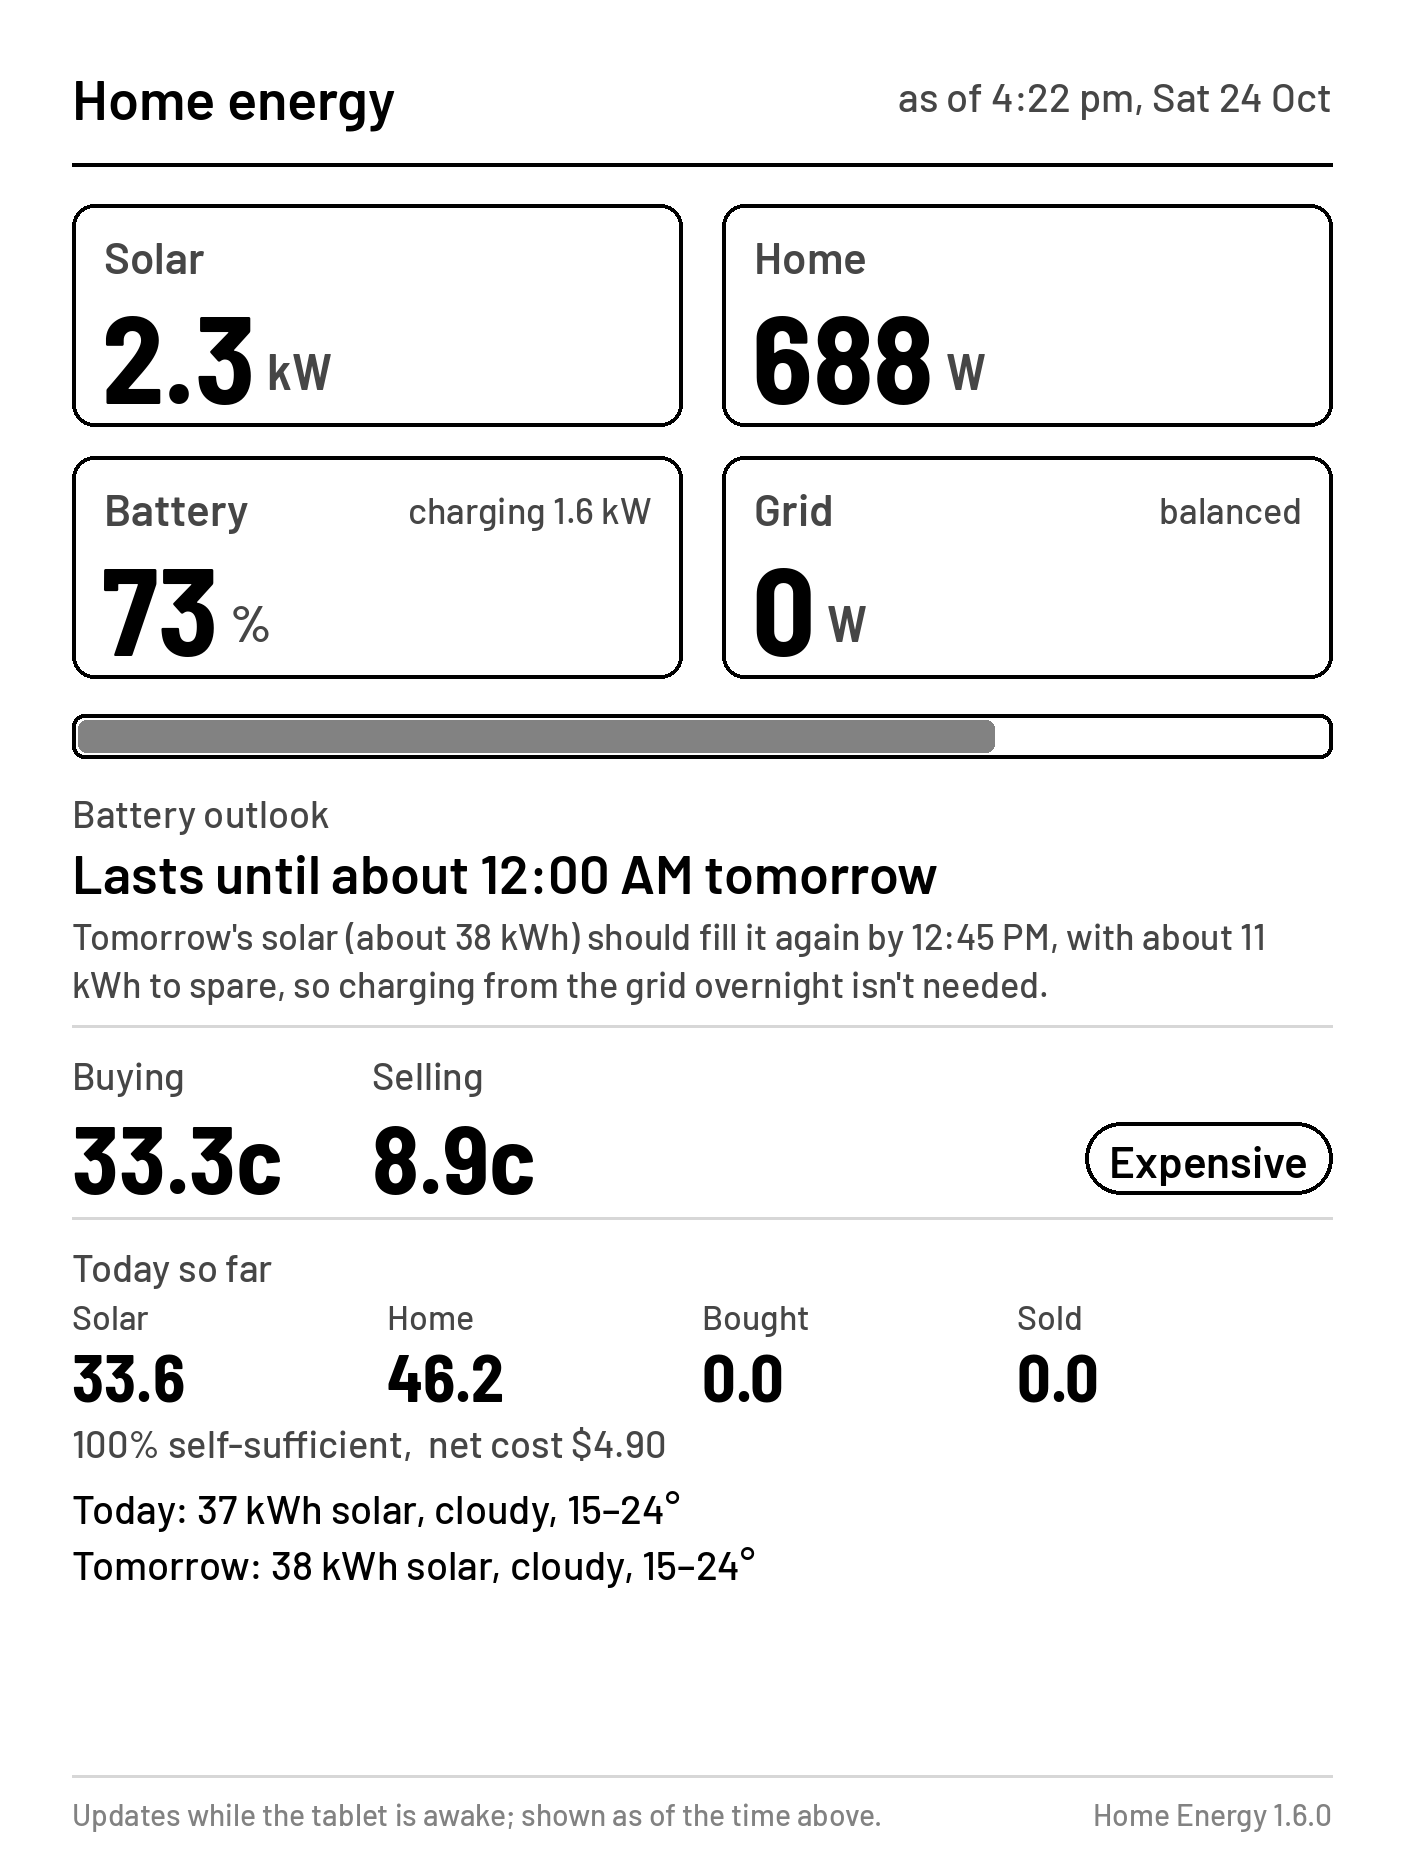
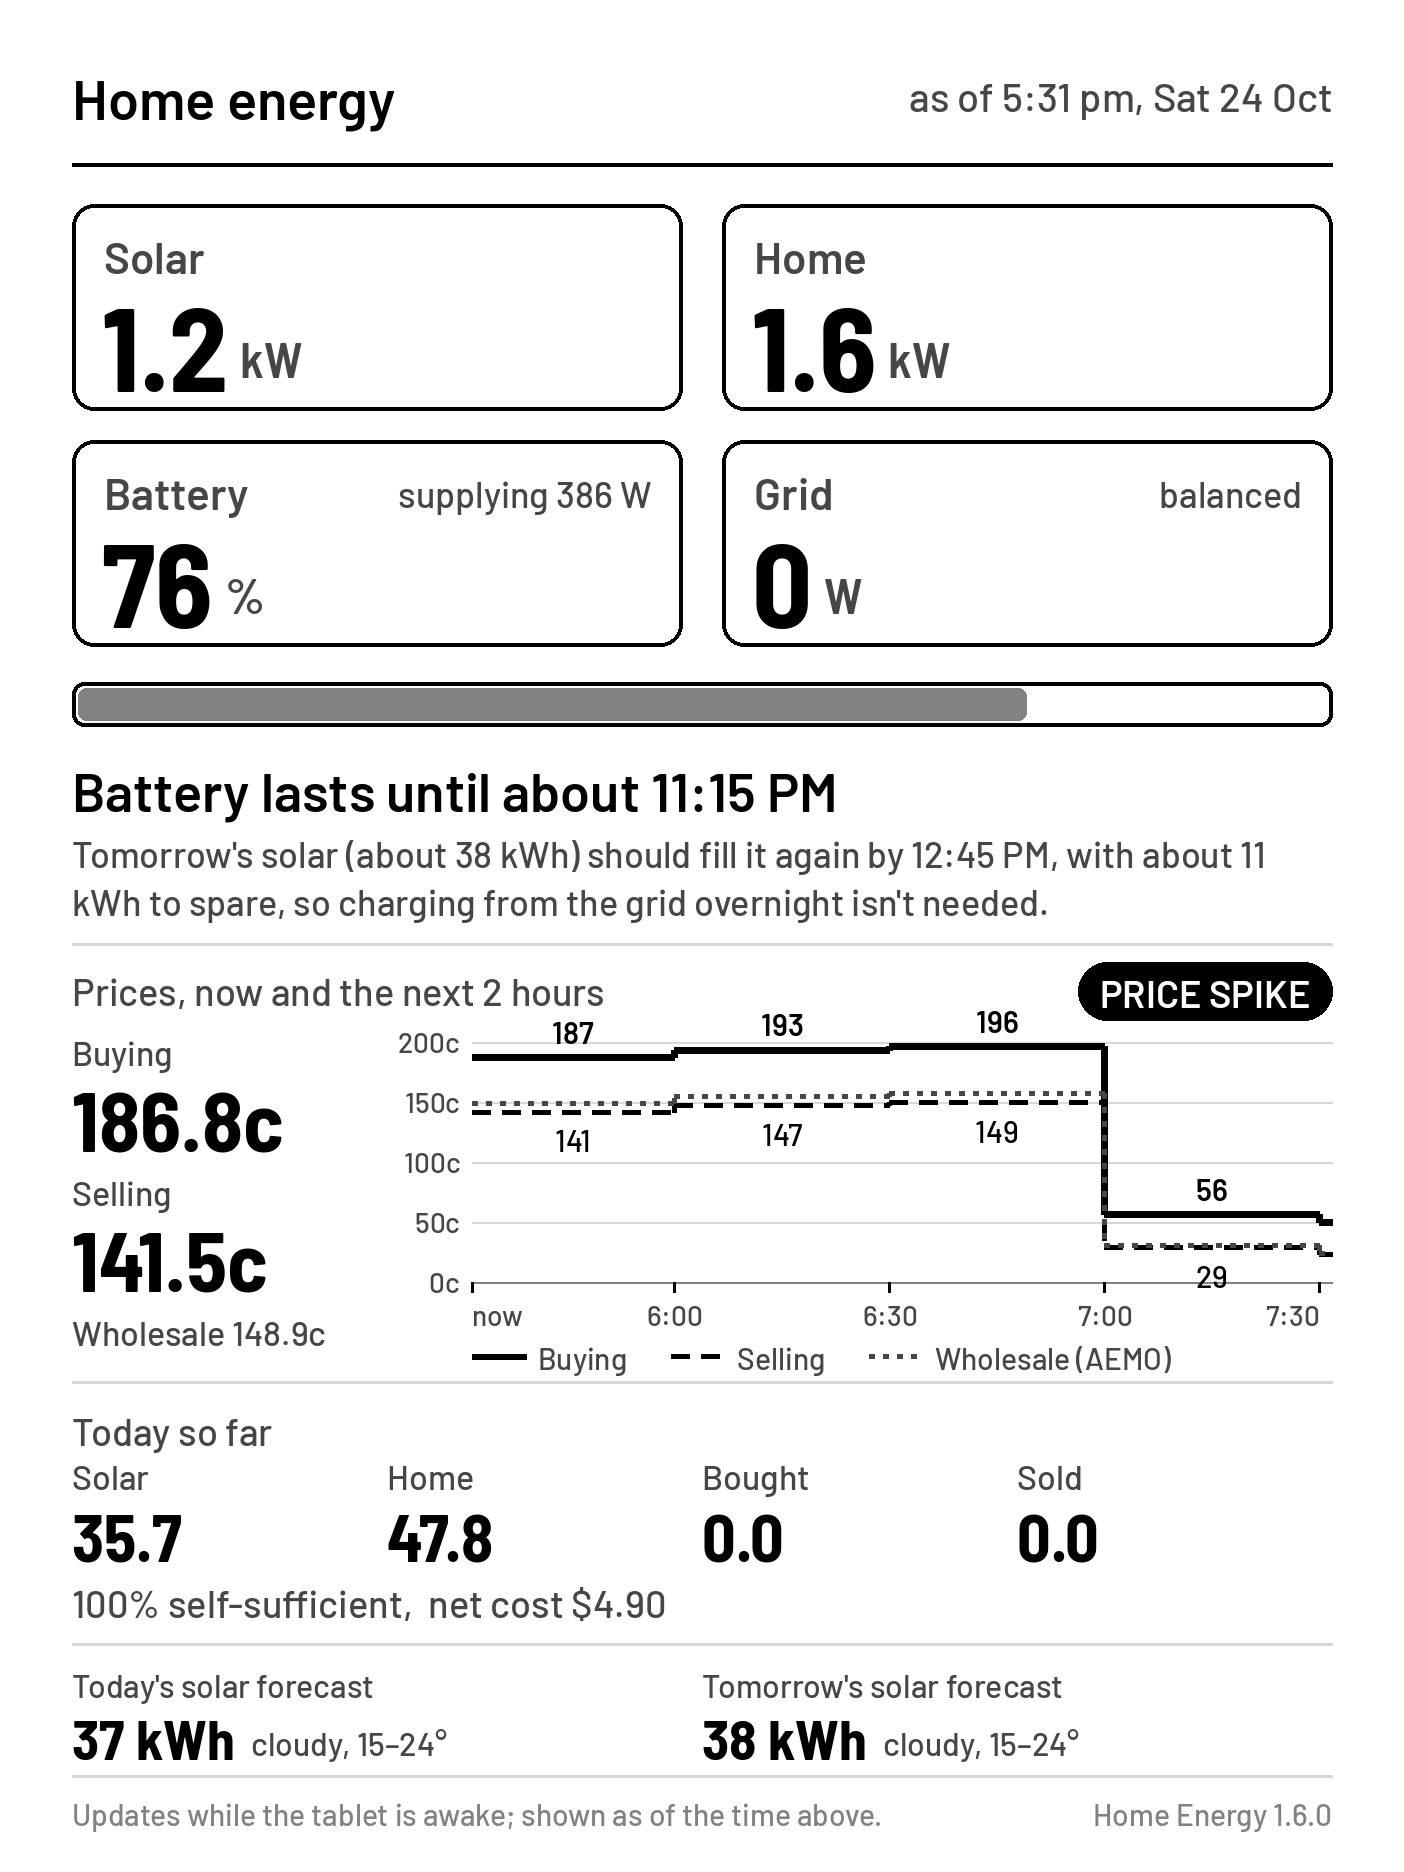
E-ink: next-2-hours price chart; keep install notes generic
The e-ink image now charts the retailer's buy and sell prices and the AEMO
wholesale price for the next two hours (stepped, labelled, with patterns
rather than colour), with the current prices alongside. Layout tightened to
fit, with the outlook folded into one headline. README and QNAP notes use a
placeholder collector address instead of a specific host name.

Claude-Session: https://claude.ai/code/session_015nhbUDYGJqnTyF2hbuQFnR

diff --git a/collector/eink.py b/collector/eink.py
@@ -46,7 +46,7 @@ def _wrap(draw, text, font, width):
     return lines
 
 
-def render(live, history=None, tz=None, width=1404, height=1872, version=""):
+def render(live, history=None, tz=None, width=1404, height=1872, version="", prices=None, aemo=None):
     if not AVAILABLE:
         raise RuntimeError("Pillow isn't installed, so the e-ink image isn't available outside the Docker image")
     s = width / 1404  # scale everything from the reMarkable 2 layout
@@ -78,7 +78,7 @@ def render(live, history=None, tz=None, width=1404, height=1872, version=""):
         y += S(80)
 
     # ---- the four flows, 2 x 2
-    cw, ch = (x1 - x0 - S(40)) // 2, S(222)
+    cw, ch = (x1 - x0 - S(40)) // 2, S(206)
     batt = b.get("soc")
     bw = p.get("battery") or 0
     gw = p.get("grid") or 0
@@ -93,10 +93,10 @@ def render(live, history=None, tz=None, width=1404, height=1872, version=""):
         cx, cy = x0 + (i % 2) * (cw + S(40)), y + (i // 2) * (ch + S(30))
         d.rounded_rectangle([cx, cy, cx + cw, cy + ch], radius=S(22), outline=BLACK, width=S(4))
         d.text((cx + S(32), cy + S(26)), label, font=txtb(44), fill=DARK)
-        vf = numb(124)
-        d.text((cx + S(30), cy + S(76)), val, font=vf, fill=BLACK)
+        vf = numb(118)
+        d.text((cx + S(30), cy + S(70)), val, font=vf, fill=BLACK)
         vw = d.textlength(val, font=vf)
-        d.text((cx + S(42) + vw, cy + S(134)), unit, font=num(52), fill=DARK)
+        d.text((cx + S(42) + vw, cy + S(124)), unit, font=num(50), fill=DARK)
         if sub:
             d.text((cx + cw - S(30), cy + S(32)), sub, font=txt(36), fill=DARK, anchor="ra")
     y += 2 * ch + S(30) + S(36)
@@ -112,46 +112,134 @@ def render(live, history=None, tz=None, width=1404, height=1872, version=""):
     # ---- outlook and price
     o = (live or {}).get("outlook") or {}
     if o.get("enabled") and o.get("headline"):
-        d.text((x0, y), "Battery outlook", font=txt(38), fill=DARK)
-        y += S(50)
-        d.text((x0, y), o["headline"], font=txtb(54), fill=BLACK)
+        head = o["headline"]
+        d.text((x0, y), "Battery " + head[0].lower() + head[1:], font=txtb(54), fill=BLACK)
         y += S(74)
         adv = (o.get("advice") or [])
         if len(adv) > 1:
-            for line in _wrap(d, adv[1], txt(36), x1 - x0)[:3]:
+            for line in _wrap(d, adv[1], txt(36), x1 - x0)[:2]:
                 d.text((x0, y), line, font=txt(36), fill=DARK)
                 y += S(48)
         y += S(16)
 
     pr = (live or {}).get("price") or {}
-    if pr.get("buy") is not None:
+    ae = aemo or {}
+    has_retail = pr.get("buy") is not None
+    has_ws = ae.get("enabled") and (ae.get("current") or {}).get("price_c") is not None
+    if has_retail or has_ws:
         d.line([(x0, y), (x1, y)], fill=LIGHT, width=S(3))
-        y += S(26)
-        d.text((x0, y), "Buying", font=txt(38), fill=DARK)
-        d.text((x0 + S(300), y), "Selling", font=txt(38), fill=DARK)
-        y += S(46)
-        d.text((x0, y), f"{pr['buy']:.1f}c", font=numb(96), fill=BLACK)
-        d.text((x0 + S(300), y), f"{pr['sell']:.1f}c" if pr.get("sell") is not None else "–", font=numb(96), fill=BLACK)
+        y += S(24)
+        d.text((x0, y), "Prices, now and the next 2 hours", font=txt(38), fill=DARK)
         tag = {"spike": "PRICE SPIKE", "high": "Expensive", "neutral": "Average", "low": "Cheap", "veryLow": "Very cheap",
                "extremelyLow": "Very cheap", "negative": "Very cheap"}.get(pr.get("descriptor") or "", "")
         if pr.get("spike") == "spike":
             tag = "PRICE SPIKE"
         if tag:
-            tf = txtb(44)
+            tf = txtb(38)
             tw = d.textlength(tag, font=tf)
-            bx = x1 - tw - S(48)
             filled = tag == "PRICE SPIKE"
-            d.rounded_rectangle([bx, y + S(24), x1, y + S(96)], radius=S(36), outline=BLACK, width=S(4),
+            d.rounded_rectangle([x1 - tw - S(44), y - S(6), x1, y + S(52)], radius=S(29), outline=BLACK, width=S(4),
                                 fill=BLACK if filled else WHITE)
-            d.text((bx + S(24), y + S(36)), tag, font=tf, fill=WHITE if filled else BLACK)
-        y += S(120)
+            d.text((x1 - tw - S(22), y + S(2)), tag, font=tf, fill=WHITE if filled else BLACK)
+        y += S(64)
+        # left: the prices now
+        L = S(330)
+        rows = ([("Buying", pr["buy"]), ("Selling", pr.get("sell"))] if has_retail else []) + \
+               ([("Wholesale", ae["current"]["price_c"])] if has_ws and not has_retail else [])
+        ly = y
+        for lab, v in rows:
+            d.text((x0, ly), lab, font=txt(34), fill=DARK)
+            d.text((x0, ly + S(36)), "–" if v is None else f"{v:.1f}c", font=numb(84), fill=BLACK)
+            ly += S(140)
+        if has_retail and has_ws:
+            d.text((x0, ly), f"Wholesale {ae['current']['price_c']:.1f}c", font=txt(34), fill=DARK)
+        # right: step chart of the next two hours
+        now = time.time()
+        end = now + 2 * 3600
+        series = []  # (label, [(t0, t1, value)], style)
+        if has_retail:
+            fc = [f for f in (prices or {}).get("forecast") or [] if f.get("end", 0) > now and f.get("t", 0) < end]
+            for key, style in (("buy", "solid"), ("sell", "dash")):
+                segs = [(max(now, f["t"]), min(end, f["end"]), f[key]) for f in fc if f.get(key) is not None]
+                if not segs and pr.get(key) is not None:
+                    segs = [(now, min(end, pr.get("ends") or end), pr[key])]
+                series.append(("Buying" if key == "buy" else "Selling", segs, style))
+        if has_ws:
+            wf = [f for f in ae.get("forecast") or [] if f.get("end", 0) > now and f.get("t", 0) < end]
+            segs = [(max(now, f["t"]), min(end, f["end"]), f["price_c"]) for f in wf if f.get("price_c") is not None]
+            first = min((s0 for s0, _, _ in segs), default=end)
+            if first > now:  # the current 5-minute price until the forecast starts
+                segs.insert(0, (now, first, ae["current"]["price_c"]))
+            series.append(("Wholesale (AEMO)", segs, "dot"))
+        vals = [v for _, segs, _ in series for _, _, v in segs]
+        cx0, cx1 = x0 + L + S(70), x1
+        cy0, cy1 = y + S(10), y + S(250)
+        if vals:
+            lo, hi = min(0.0, min(vals)), max(vals)
+            span = hi - lo or 1
+            step = next(st for st in (1, 2, 5, 10, 20, 25, 50, 100, 200, 500, 1000, 2000) if span / st <= 4)
+            lo, hi = step * (lo // step), step * -(-hi // step)
+            if hi == lo:
+                hi = lo + step
+            Y = lambda v: cy1 - (v - lo) / (hi - lo) * (cy1 - cy0)
+            X = lambda t: cx0 + (t - now) / (end - now) * (cx1 - cx0)
+            v = lo
+            while v <= hi + 1e-9:
+                d.line([(cx0, Y(v)), (cx1, Y(v))], fill=LIGHT if v else MID, width=S(2))
+                d.text((cx0 - S(12), Y(v)), f"{v:g}c", font=txt(28), fill=DARK, anchor="rm")
+                v += step
+            ticks = [now] + [h for h in range(int(now // 1800 + 1) * 1800, int(end) + 1, 1800) if h - now > 900]
+            for k, tt in enumerate(ticks):
+                lt = datetime.fromtimestamp(tt, tz)
+                d.line([(X(tt), cy1), (X(tt), cy1 + S(10))], fill=BLACK, width=S(3))
+                lab = "now" if k == 0 else lt.strftime("%-I:%M")
+                d.text((X(tt), cy1 + S(16)), lab, font=txt(28), fill=DARK,
+                       anchor="la" if k == 0 else "ra" if end - tt < 600 else "ma")
+
+            def seg_line(p0, p1, style, width_):
+                if style == "solid":
+                    d.line([p0, p1], fill=BLACK, width=width_)
+                    return
+                on, off = (S(18), S(12)) if style == "dash" else (S(5), S(9))
+                (xa, ya), (xb, yb) = p0, p1
+                length = max(1.0, ((xb - xa) ** 2 + (yb - ya) ** 2) ** 0.5)
+                pos = 0.0
+                while pos < length:
+                    e = min(length, pos + on)
+                    d.line([(xa + (xb - xa) * pos / length, ya + (yb - ya) * pos / length),
+                            (xa + (xb - xa) * e / length, ya + (yb - ya) * e / length)],
+                           fill=BLACK if style == "dash" else DARK, width=width_)
+                    pos = e + off
+
+            for label, segs, style in series:
+                segs = sorted(segs)
+                prev = None
+                for s0, s1, v in segs:
+                    if s1 <= s0:
+                        continue
+                    wid = S(7) if style == "solid" else S(5)
+                    if prev is not None:  # the step between intervals
+                        seg_line((X(s0), Y(prev)), (X(s0), Y(v)), style, wid)
+                    seg_line((X(s0), Y(v)), (X(s1), Y(v)), style, wid)
+                    if style != "dot" and X(s1) - X(s0) > S(90):
+                        d.text(((X(s0) + X(s1)) / 2, Y(v) + (-S(8) if style == "solid" else S(10))), f"{v:.0f}",
+                               font=txtb(30) if style == "solid" else txt(30), fill=BLACK,
+                               anchor="md" if style == "solid" else "ma")
+                    prev = v
+            # legend
+            lx, lyy = cx0, cy1 + S(58)
+            for label, _, style in series:
+                seg_line((lx, lyy + S(16)), (lx + S(54), lyy + S(16)), style, S(6) if style == "solid" else S(5))
+                d.text((lx + S(66), lyy), label, font=txt(30), fill=DARK)
+                lx += S(80) + d.textlength(label, font=txt(30)) + S(30)
+        y = max(ly + (S(50) if has_retail and has_ws else 0), cy1 + S(100))
 
     # ---- today
     t = (live or {}).get("today") or {}
     d.line([(x0, y), (x1, y)], fill=LIGHT, width=S(3))
     y += S(26)
     d.text((x0, y), "Today so far", font=txt(38), fill=DARK)
-    y += S(52)
+    y += S(48)
     cells = [("Solar", t.get("pv"), "kWh"), ("Home", t.get("load"), "kWh"), ("Bought", t.get("import"), "kWh"),
              ("Sold", t.get("export"), "kWh")]
     cost = t.get("cost") or {}
@@ -172,19 +260,26 @@ def render(live, history=None, tz=None, width=1404, height=1872, version=""):
         d.text((x0, y), ",  ".join(extra), font=txt(38), fill=DARK)
         y += S(64)
 
-    # ---- solar forecast
+    # ---- solar forecast (one line each for today and tomorrow, as space allows)
     w = (live or {}).get("weather") or {}
     if w.get("enabled") and w.get("today"):
-        parts = []
+        cols = []
         for k, lab in (("today", "Today"), ("tomorrow", "Tomorrow")):
             dd = w.get(k)
             if dd:
-                kwh = f"{dd['pv_kwh']:.0f} kWh solar, " if dd.get("pv_kwh") is not None else ""
-                parts.append(f"{lab}: {kwh}{dd['desc'].lower()}, {round(dd['tmin'])}–{round(dd['tmax'])}°")
-        for part in parts:
-            d.text((x0, y), part, font=txt(40), fill=BLACK)
-            y += S(56)
-
+                kwh = f"{dd['pv_kwh']:.0f} kWh" if dd.get("pv_kwh") is not None else "–"
+                cols.append((lab, kwh, f"{dd['desc'].lower()}, {round(dd['tmin'])}–{round(dd['tmax'])}°"))
+        if cols and y + S(100) <= height - S(100):
+            d.line([(x0, y), (x1, y)], fill=LIGHT, width=S(3))
+            y += S(22)
+            half = (x1 - x0) // 2
+            for i, (lab, kwh, desc) in enumerate(cols):
+                cx = x0 + i * half
+                d.text((cx, y), f"{lab}'s solar forecast", font=txt(32), fill=DARK)
+                d.text((cx, y + S(38)), kwh, font=numb(56), fill=BLACK)
+                kw_w = d.textlength(kwh, font=numb(56))
+                d.text((cx + kw_w + S(16), y + S(58)), desc, font=txt(32), fill=DARK)
+            y += S(104)
         y += S(10)
 
     # ---- solar and battery over the last 24 hours

diff --git a/collector/sigen_collector.py b/collector/sigen_collector.py
@@ -988,7 +988,8 @@ class Api(BaseHTTPRequestHandler):
                 w = min(3000, max(300, int(q.get("w", ["1404"])[0])))
                 h = min(4000, max(300, int(q.get("h", ["1872"])[0])))
                 body = eink.render(self.collector.snapshot(), self.store.history(24), tz=TZ, width=w, height=h,
-                                   version=VERSION)
+                                   version=VERSION, prices=self.retailer.snapshot() if self.retailer else None,
+                                   aemo=self.aemo.snapshot(3) if self.aemo else None)
                 self._headers(200, "image/png", {"Content-Length": str(len(body))})
                 self.wfile.write(body)
                 return

diff --git a/README.md b/README.md
@@ -234,7 +234,7 @@ On a QNAP:
 3. Open `http://<NAS-IP>:8088`. It uses port 8088 because QTS's own admin page is on 8080.
 
 To give the dashboard its **own address on your network** (so it's at
-`http://homeenergy.internal` with no port, after adding a DNS record on your router), use
+a plain address with no port, or a name you set up on your router's DNS), use
 [`qnap/docker-compose.own-ip.yml`](qnap/docker-compose.own-ip.yml) instead; the comments at the
 top say which three values to change.
 
@@ -436,12 +436,12 @@ install Rust and Node, then `cd desktop && npm install && npm run build`.
 ## reMarkable 2 sleep screen (optional)
 
 The collector draws an e-ink version of the dashboard at `http://<collector>/eink.png`:
-the four flows, battery, outlook, prices, today's totals and the solar forecast in large
-black-and-white type, sized for a reMarkable 2 (other sizes with `?w=1072&h=1448` and so on).
+the four flows, battery and its outlook, the buy, sell and wholesale prices for the next two
+hours, today's totals and the solar forecast in large black-and-white type, sized for a reMarkable 2 (other sizes with `?w=1072&h=1448` and so on).
 A reMarkable 2 can show it as its sleep screen, so the tablet becomes an energy display when
 you put it down.
 
-<img alt="E-ink energy display: solar, home, battery and grid tiles, battery outlook, buy and sell prices, today's totals and the solar forecast" src="docs/screenshots/eink-remarkable.png" width="360">
+<img alt="E-ink energy display: solar, home, battery and grid tiles, battery outlook, a chart of buy, sell and wholesale prices for the next two hours, today's totals and the solar forecast" src="docs/screenshots/eink-remarkable.png" width="360">
 
 It updates while the tablet is awake (every 5 minutes, and when it wakes); a sleeping
 reMarkable has Wi-Fi off, so the sleep screen shows the figures from when you put it down,
@@ -450,9 +450,9 @@ with that time printed at the top. Needs reMarkable software 3.20 or later.
 1. On the tablet, open **Settings → Help → Copyrights and licenses** and note the IP address
    and root password at the bottom.
 2. From a computer on the same network: `ssh root@<tablet IP>` and enter that password.
-3. Run (with your collector's address):
+3. Run this, using the address you open the dashboard at (for example `192.168.1.50:8088`):
    ```sh
-   wget -qO- http://homeenergy.internal/remarkable/install.sh | sh
+   wget -qO- http://<collector address>/remarkable/install.sh | sh
    ```
 4. Put the tablet to sleep.
 

diff --git a/CHANGELOG.md b/CHANGELOG.md
@@ -28,7 +28,8 @@ update; the Docker image is tagged with the same version.
 ### E-ink display (reMarkable 2)
 - The collector draws an e-ink version of the dashboard at `/eink.png` (1404 x 1872 for the
   reMarkable 2 by default; `?w=&h=` for other screens): the four flows, battery, outlook,
-  prices, today's totals and the solar forecast in high-contrast greyscale
+  a chart of the buy, sell and AEMO wholesale prices for the next two hours, today's totals
+  and the solar forecast in high-contrast greyscale
 - A one-command installer makes it a reMarkable 2's sleep screen, refreshed every 5 minutes
   while the tablet is awake, and an uninstaller puts everything back
 - The Docker image now includes Pillow, used only to draw this image
